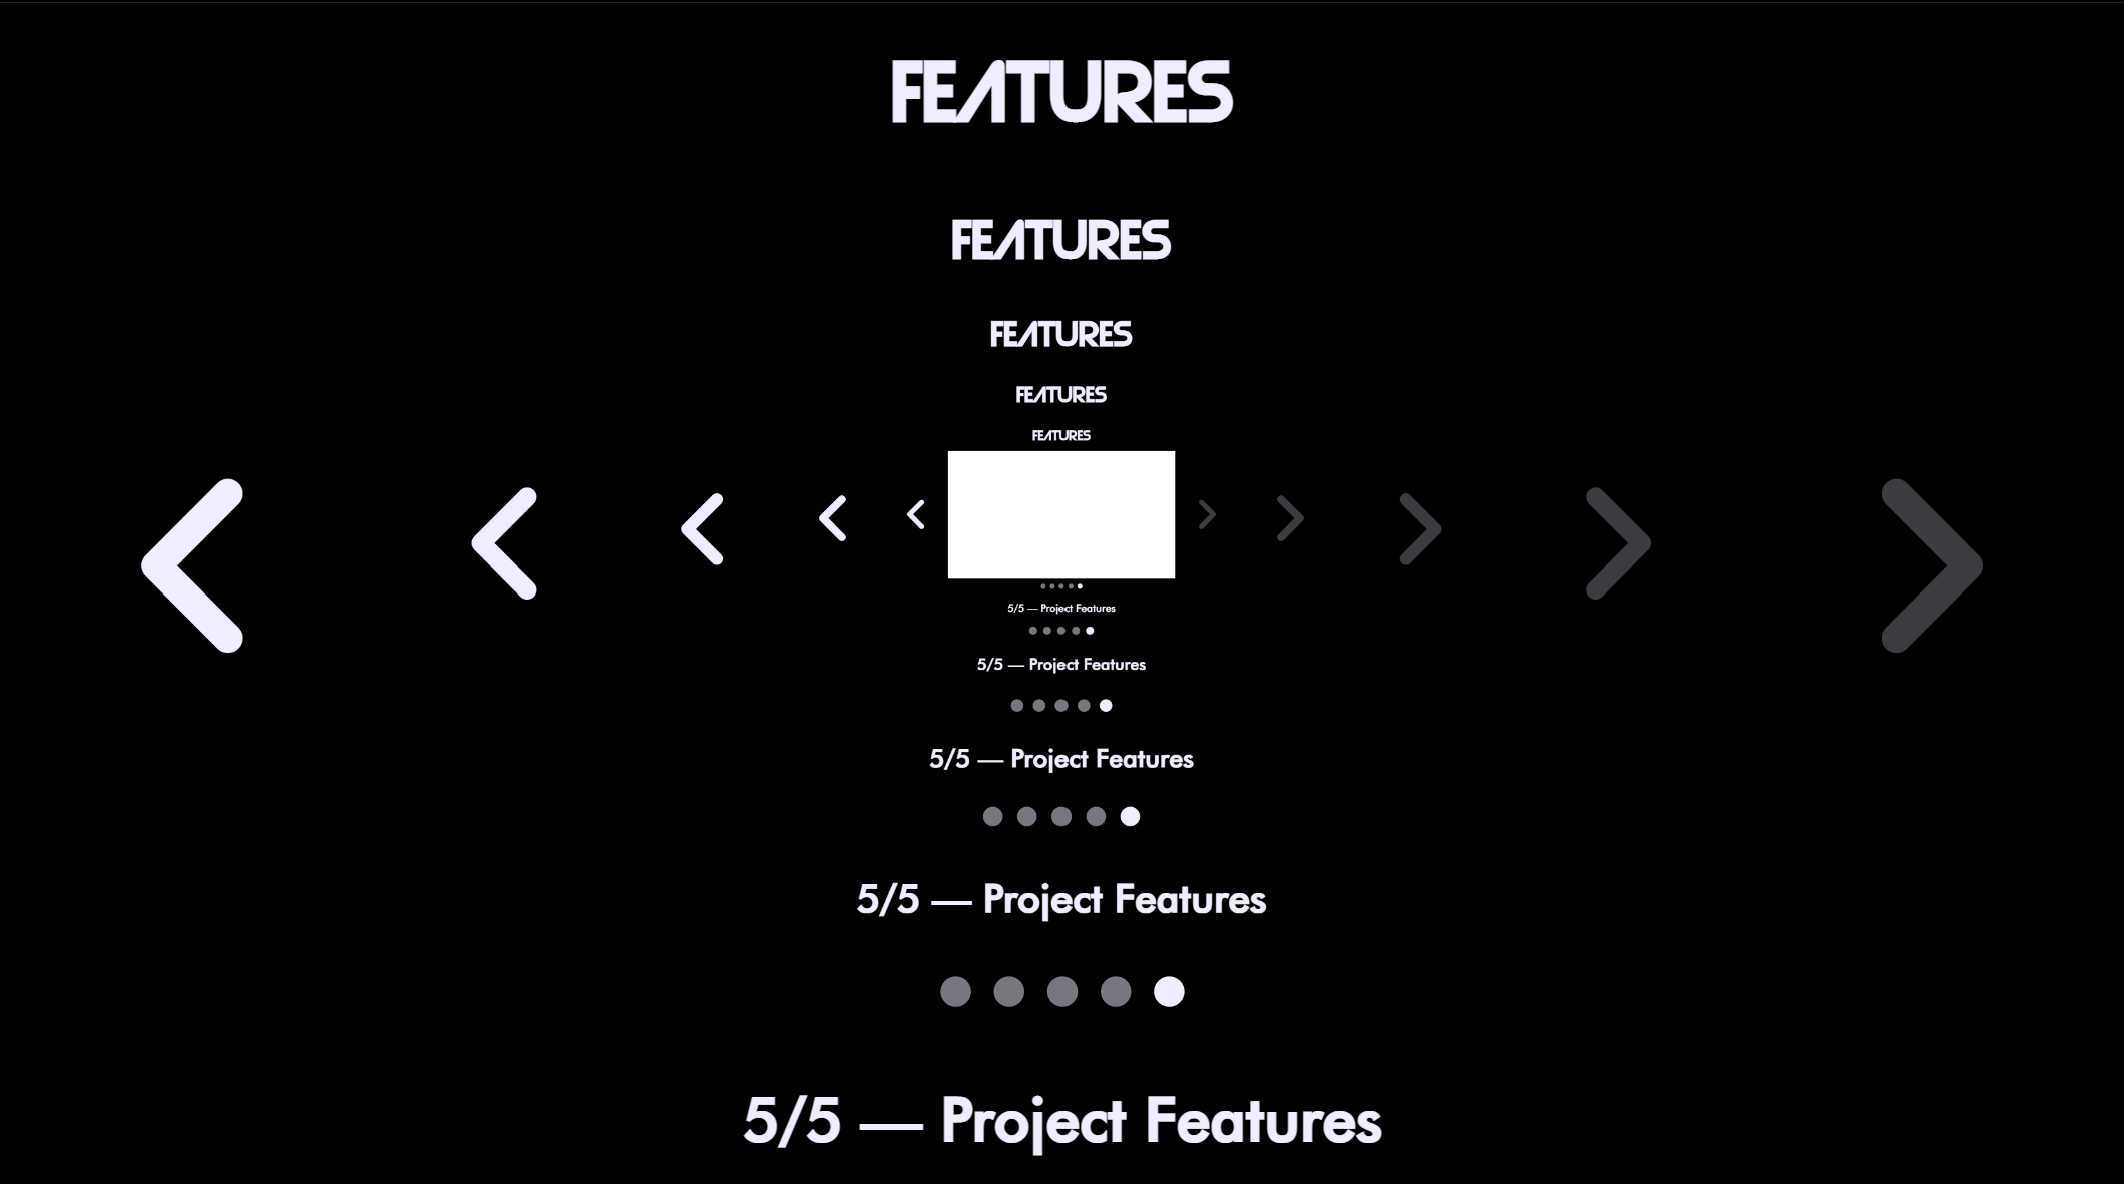
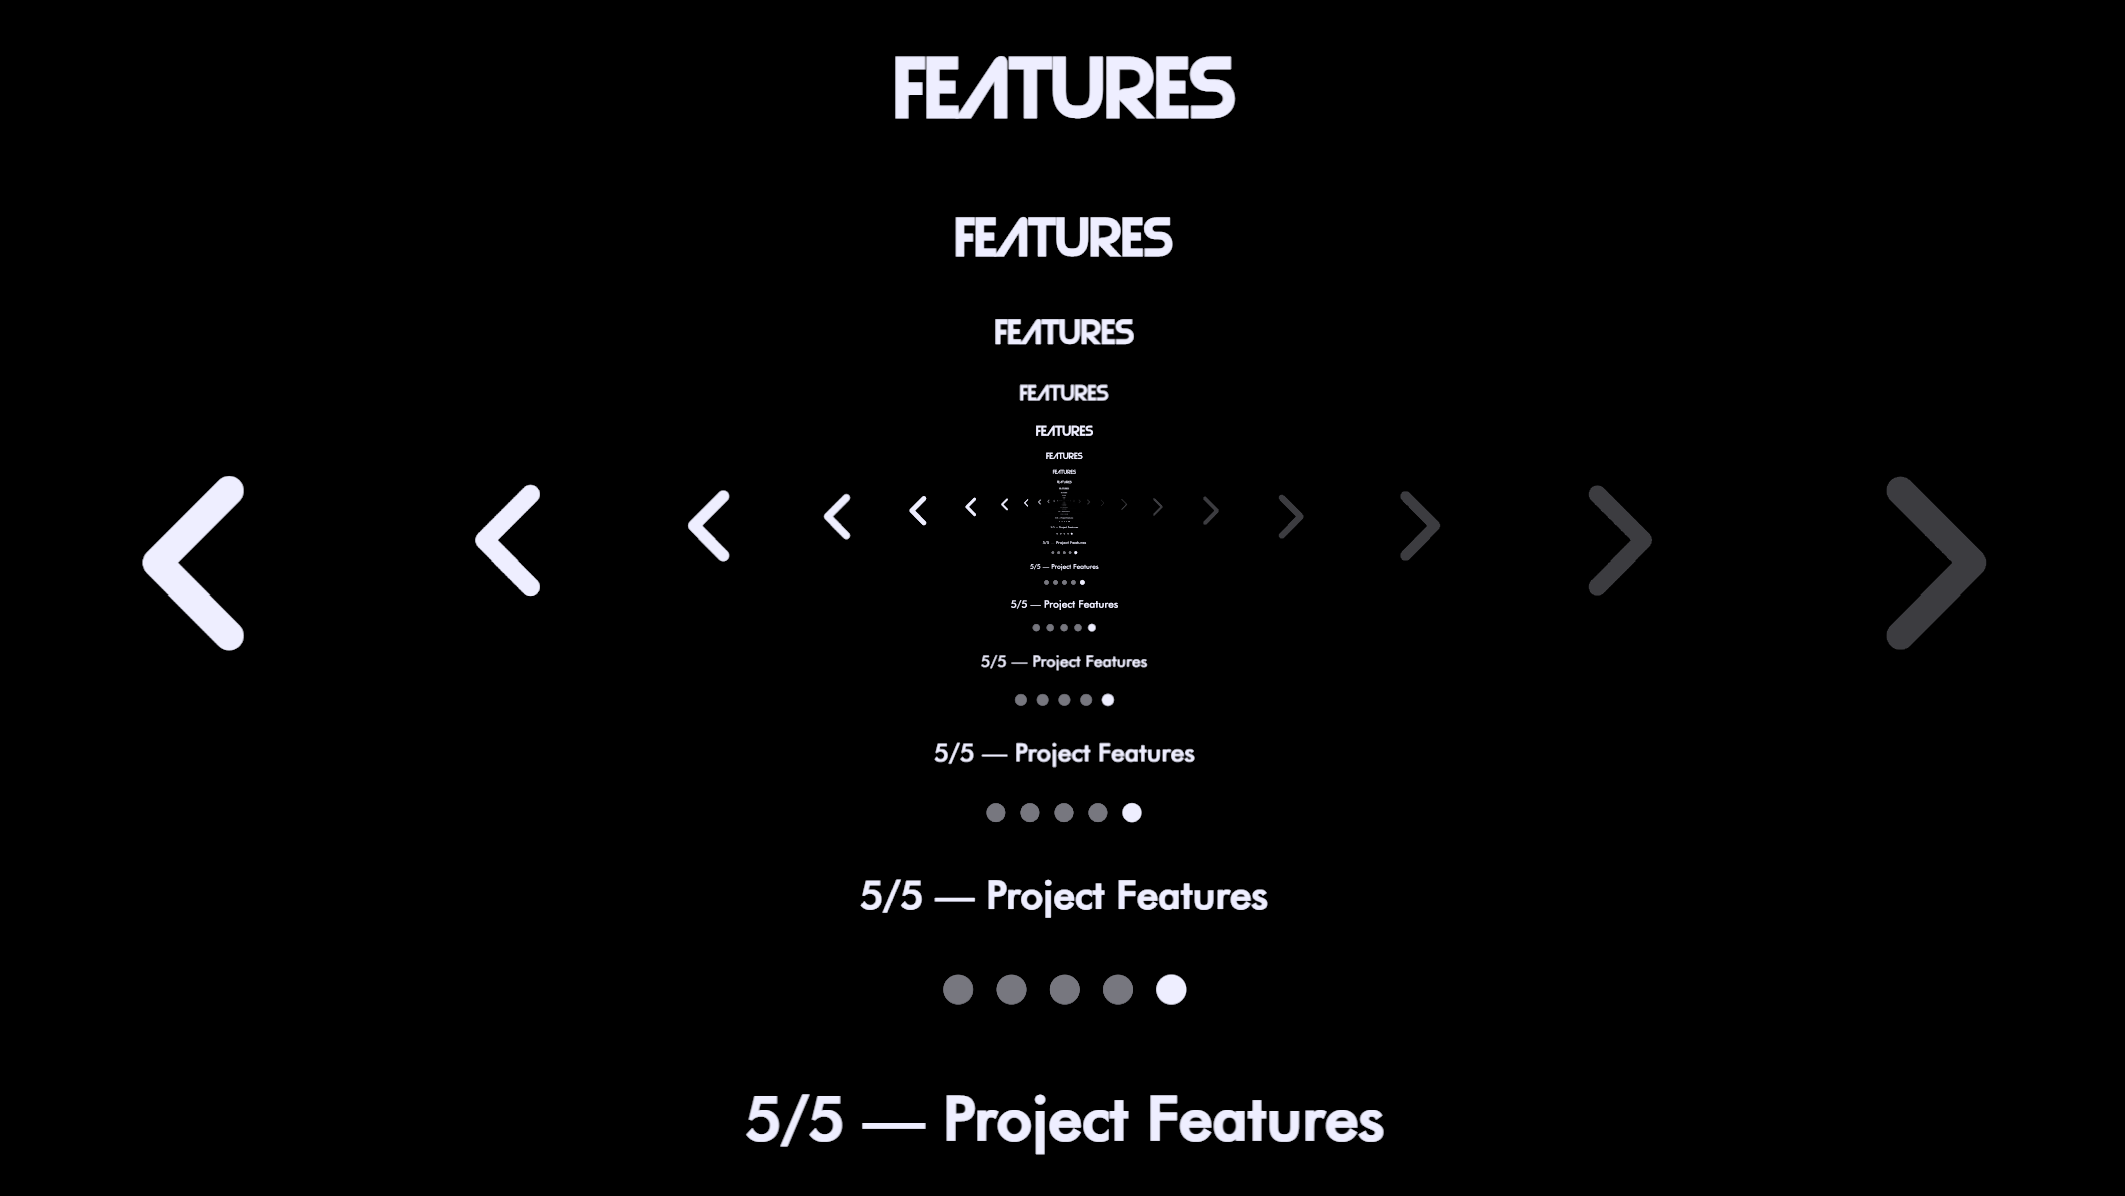
Projects feature img updated for iOS Safari compatibility (hopefully)
Other small edits to Projects section: min-width to GitHub logo in link, changed some text in features to appear as code

diff --git a/projects/website.html b/projects/website.html
@@ -116,18 +116,7 @@
             Jake Rubin
         </a>
     </div>
-    <div id="pfeatureimg">
-        <style>
-            #pfeatureimg {
-                background-image:url(./../img/webcode.png);
-                background-size:cover;
-                background-repeat:no-repeat;
-                background-attachment:fixed;
-                background-position-x:center;
-                background-position-y:top;
-            }
-        </style>
-    </div>
+    <div id="pfeatureimg" style="background-image:url(./../img/webcode.png)"></div>
     <div id="pgit">
         <a href="https://github.com/rubination/rubination.github.io">
             <div id="pgitlogo"></div>
@@ -200,18 +189,18 @@
                 </p>
                 <ol>
                     <li>
-                        <strong>Fixed positioning:</strong> uses fixed position, body's margin-top increased to compensate for space of bar.
+                        <strong>Fixed positioning:</strong> uses fixed position, body's <code>margin-top</code> property increased to compensate for space of bar.
                     </li><br>
                     <li>
                         <strong>Collapsable menu:</strong> uses a click event listener to trigger function which shows or hides options and changes overflow properties of body to prevent scrolling.
                         Another JavaScript function closes the "Projects" tab in the event that the collapsable menu closes when it is still open.
                     </li><br>
                     <li>
-                        <strong>Resizing property:</strong> uses the CSS @media rule with the max-width property to show the full menu or collapsable menu at different screen sizes. 
+                        <strong>Resizing property:</strong> uses the CSS <code>@media</code> rule with the <code>max-width</code> property to show the full menu or collapsable menu at different screen sizes. 
                         Another JavaScript function tracks screen size to close the collapsable menu if the screen width becomes wide enough to accomodate the full menu.
                     </li><br>
                     <li>
-                        <strong>Downloadable link:</strong> uses &lt;a&gt; tag's download attribute to download my resume upon the click of the "Resume" button.
+                        <strong>Downloadable link:</strong> uses <code>&lt;a&gt;</code> tag's download attribute to download my resume upon the click of the "Resume" button.
                     </li>
                 </ol>
             </div>
@@ -227,7 +216,7 @@
                         <strong>Tinted images:</strong> uses full grayscale, increased brightness and reduced opacity via CSS filter functions to create an image which can be "tinted" by the background color of the division containing the image.
                     </li><br>
                     <li>
-                        <strong>Link covering image:</strong> uses absolute positioning and CSS calc() function for width to place a link on top of an image within the bounds of the division.
+                        <strong>Link covering image:</strong> uses absolute positioning and CSS <code>calc()</code> function for width to place a link on top of an image within the bounds of the division.
                     </li><br>
                     <li>
                         <strong>Seamless transitions:</strong> uses CSS transitions to smoothly change image height and background color over 0.25 seconds.
@@ -272,14 +261,14 @@
                         <strong>JS Event Listeners:</strong> event listeners placed on a link and the modal's close icon trigger functions to display or hide the modal image.
                     </li><br>
                     <li>
-                        <strong>CSS Animations:</strong> the Fritzing modal uses the CSS @keyframes rule to change the vertical position and opacity of the modal image immediately after display to seamlessly fade in the image.
+                        <strong>CSS Animations:</strong> the Fritzing modal uses the CSS <code>@keyframes</code> rule to change the vertical position and opacity of the modal image immediately after display to seamlessly fade in the image.
                     </li><br>
                     <li>
-                        <strong>Creating/Appending HTML:</strong> using the JS create createElement(), setAttribute(), and appendChild() functions, the demo video creates and inserts the modal and inserts it into the document.
-                        An event listener on the close icon triggers the remove() function to delete the modal from the document on a click.
+                        <strong>Creating/Appending HTML:</strong> using the JS <code>createElement()</code>, <code>setAttribute()</code>, and <code>appendChild()</code> functions, the demo video creates and inserts the modal and inserts it into the document.
+                        An event listener on the close icon triggers the <code>remove()</code> function to delete the modal from the document on a click.
                     </li><br>
                     <li>
-                        <strong>Embedded YouTube video:</strong> the demo video uses the &lt;iframe&gt; tag within several nested padded &lt;div&gt; tags to display a YouTube video with a fixed aspect ratio.
+                        <strong>Embedded YouTube video:</strong> the demo video uses the <code>&lt;iframe&gt;</code> tag within several nested padded <code>&lt;div&gt;</code> tags to display a YouTube video with a fixed aspect ratio.
                     </li>
                 </ol>
             </div>
@@ -299,7 +288,7 @@
                         <strong>Dots:</strong> similarly to the arrows, calls a function which displays the feature corresponding to each dot and updating each arrow and dots as needed.
                     </li><br>
                     <li>
-                        <strong>CSS @media rule:</strong> arrows and dots change places or disappear entirely depending on screen size.
+                        <strong>CSS <code>@media</code> rule:</strong> arrows and dots change places or disappear entirely depending on screen size.
                     </li>
                 </ol>
             </div>

diff --git a/projects/batbot.html b/projects/batbot.html
@@ -128,18 +128,7 @@
             Ilam Imayavaramban
         </a>
     </div>
-    <div id="pfeatureimg">
-        <style>
-            #pfeatureimg {
-                background-image:url(./../img/batbot.jpg);
-                background-size:cover;
-                background-repeat:no-repeat;
-                background-attachment:fixed;
-                background-position-x:center;
-                background-position-y:top;
-            }
-        </style>
-    </div>
+    <div id="pfeatureimg" style="background-image:url(./../img/batbot.jpg);"></div>
     <div id="pgit">
         <a href="https://github.com/CPEN-291/P1_B_G13">
             <div id="pgitlogo"></div>
@@ -309,7 +298,7 @@
                 <h2 class="br">1/10 <br> Sounds via Piezo Buzzer</h2>
                 <p>
                     Utilizing the Piezo buzzer served two purposes: provide the user with auditory feedback, and provide the robot with personality.  
-                    This was accomplished using one or more instances of CircuitPython's simpleio.tone() function.
+                    This was accomplished using one or more instances of CircuitPython's <code>simpleio.tone()</code> function.
                     In total, there were seven sounds created for this project, stored as single commands or functions
                     (click each title to hear the sound it describes):
                 </p>
@@ -350,8 +339,8 @@
                 <h2 class="br">4/10 <br> LED Flashes</h2>
                 <p>
                     The four LEDs on the front of the robot allowed for visual feedback and flair.
-                    This was done by accessing the group of pins in the 74HC595 shift register and turning the value of each pin to True or False as needed,
-                        using CircuitPython's time.sleep() function to provide the timing of each sequence.
+                    This was done by accessing the group of pins in the 74HC595 shift register and turning the value of each pin to <code>True</code> or <code>False</code> as needed,
+                        using CircuitPython's <code>time.sleep()</code> function to provide the timing of each sequence.
                     Two main LED sequences were made for Batbot:
                 </p>
                 <ol>

diff --git a/projects/covidapp.html b/projects/covidapp.html
@@ -128,18 +128,7 @@
             Ilam Imayavaramban
         </a>
     </div>
-    <div id="pfeatureimg">
-        <style>
-            #pfeatureimg {
-                background-image:url(./../img/covidchecker.png);
-                background-size:cover;
-                background-repeat:no-repeat;
-                background-attachment:fixed;
-                background-position-x:center;
-                background-position-y:top;
-            }
-        </style>
-    </div>
+    <div id="pfeatureimg" style="background-image:url(./../img/covidchecker.png);"></div>
     <div id="pgit">
         <a href>
             <div id="pgitlogo"></div>

diff --git a/style/projects.css b/style/projects.css
@@ -73,6 +73,18 @@ a {
     min-height:300px;
     height:25vh;
     max-height:500px;
+    background-size:cover;
+    background-repeat:no-repeat;
+    background-attachment:fixed;
+    background-position-x:center;
+    background-position-y:top;
+}
+
+@supports (-webkit-touch-callout: none) {
+    #pfeatureimg {
+        background-attachment:scroll;
+        background-position-y:center;
+    }
 }
 
 /* GITHUB LINK SECTION */
@@ -98,6 +110,7 @@ a {
 }
 
 #pgitlogo {
+    min-width:22px;
     width:22px;
     height:22px;
     background-image:url(./../img/githublink.png);
